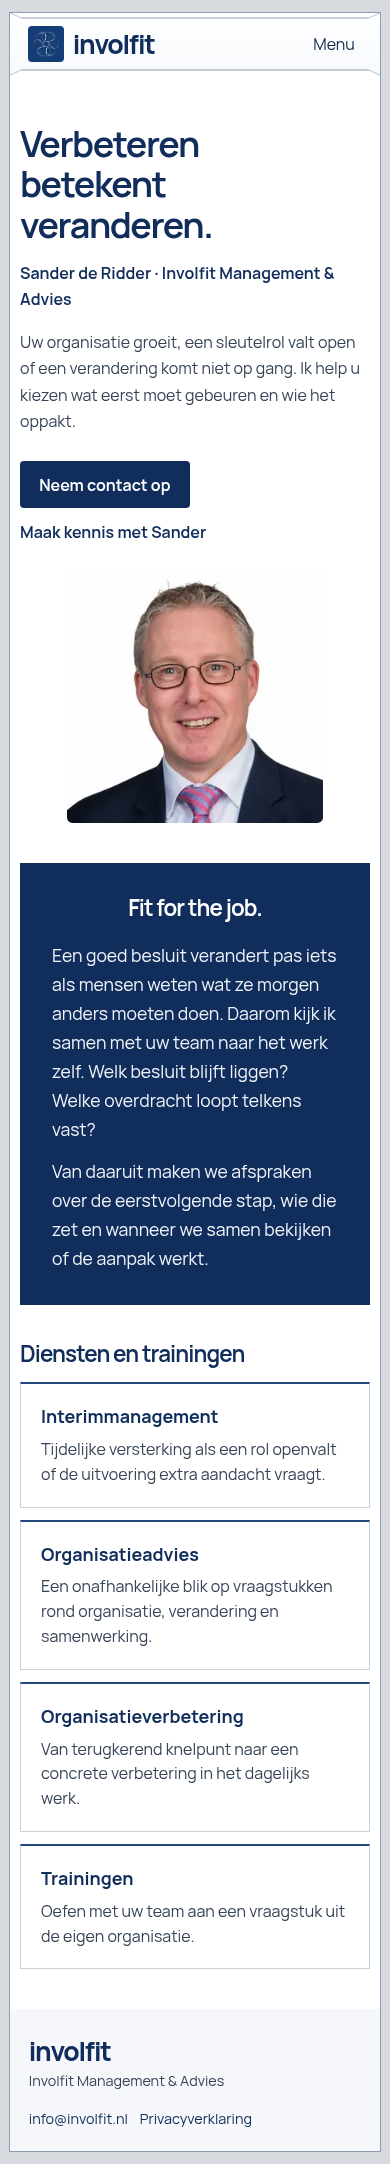
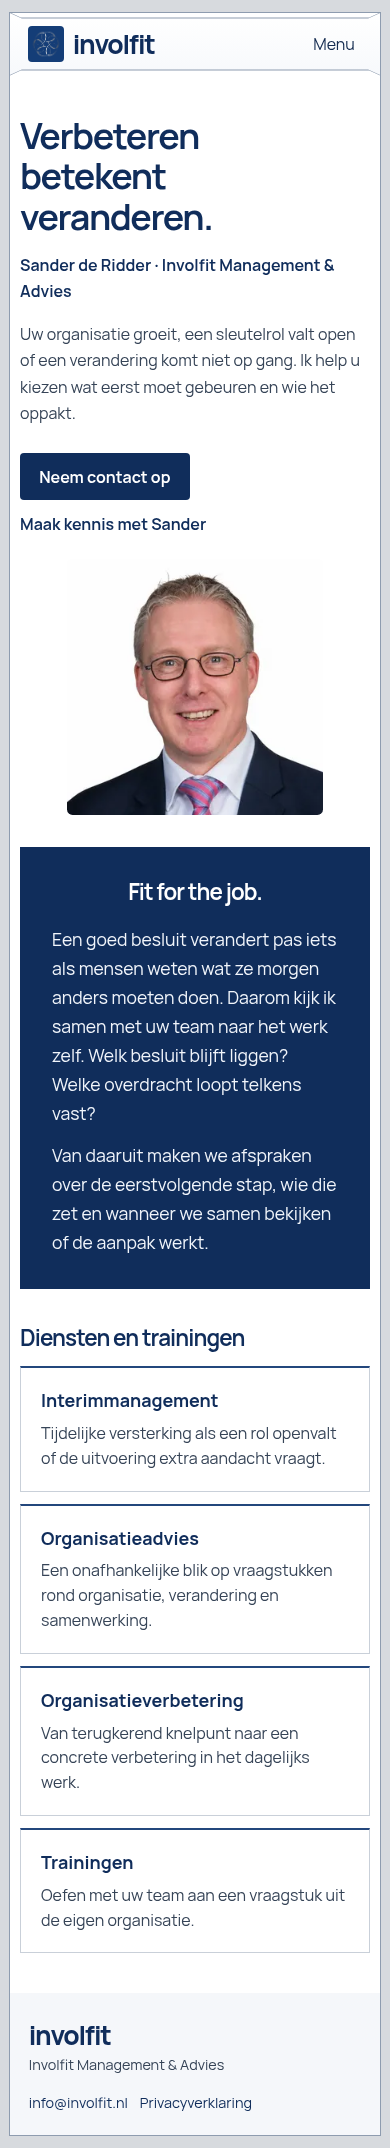
Bring the portrait and introduction closer together

diff --git a/projects/involfit/public/site.css b/projects/involfit/public/site.css
@@ -103,10 +103,11 @@ h2 { font-size: clamp(1.4rem, 3vw, 2.25rem); font-weight: 650; }
 
 .hero {
   display: grid;
-  grid-template-columns: minmax(0, 1.4fr) minmax(0, 1fr);
+  grid-template-columns: minmax(0, 30rem) minmax(0, 20rem);
+  justify-content: center;
   align-items: center;
-  gap: clamp(1.5rem, 5vw, 5rem);
-  padding: clamp(2.5rem, 7vw, 6rem) clamp(0rem, 3vw, 3rem);
+  gap: clamp(1.5rem, 3.5vw, 3.5rem);
+  padding-block: clamp(2rem, 5vw, 4.5rem);
 }
 .hero h1 { max-width: 12ch; margin-bottom: .42em; }
 .hero-name { font-weight: 650; color: var(--ink); }
@@ -214,7 +215,6 @@ summary { cursor: pointer; min-height: 44px; }
   }
   .mobile-nav nav a { min-height: 44px; padding: .65rem .45rem; border-top: 1px solid var(--line); }
   .hero, .introduction { grid-template-columns: minmax(0, 1fr); }
-  .hero { padding-inline: 0; }
   .portrait { width: min(100%, 16rem); }
   .introduction { gap: .75rem; }
   .expertise-links { grid-template-columns: minmax(0, 1fr); gap: .75rem; }
